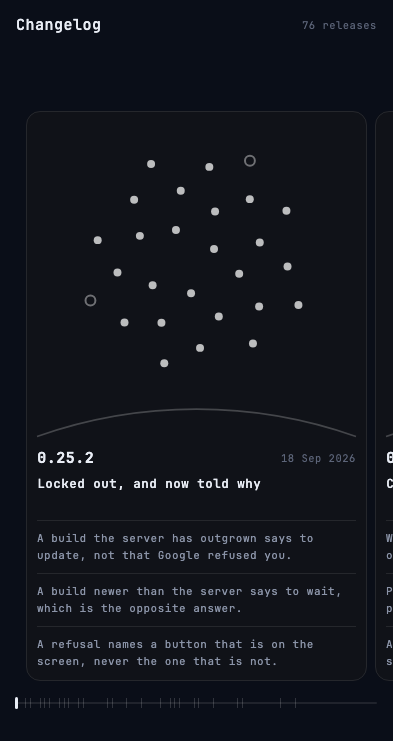
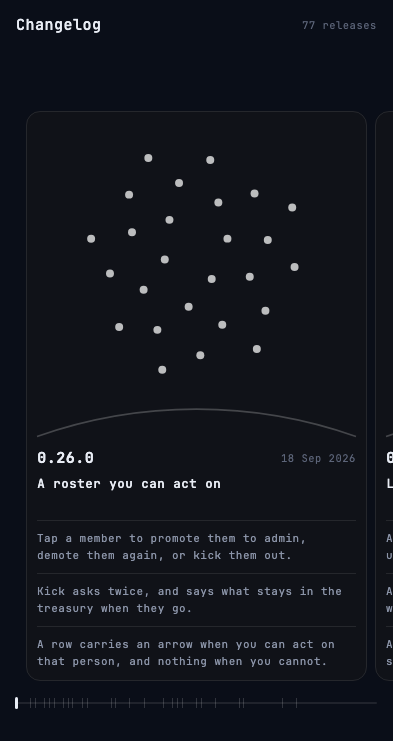
Cover what the slice cost, and re-record what the changelog moved
Two CI failures, two unrelated causes.

**The screenshots.** `settings_face_changelog` and `settings_face_swapping`
draw the in-game changelog, which gained a 0.26.0 entry *after* the baselines
were recorded. `./gradlew check` went green over it because plain `desktopTest`
neither records nor verifies — only `verifyRoborazziDesktop` compares, and that
is the command that had to run after the changelog edit rather than before it.

**The coverage gate**, on three values. The behaviour row fell because the
member face has three states no behaviour test reached, and all three were worth
reaching: an admin's card, which is the only thing that says which way the rank
moves; the held card, which is the arm the no-dead-control rule is actually
about; and the reading under it, which turns out to exercise the `0m` floor as
well. The compact confirm stays uncovered by that kind and honestly so — the
behaviour harness is fixed at 393dp, and the 320dp screenshot is what photographs
the stacked pair.

The integration row fell for a reason no test of mine could answer: the string
catalogue is in that pass's denominator and unreachable by it, so every string
this slice added lowered the row. Paid where the debt could be paid, which the
`test-coverage` skill says is the point rather than a dodge — `AllianceTreasuryEndpointsKt`
was 28 lines at zero across that pass, because the routes take their repositories
as parameters so the decisions can be unit-tested with no socket, which left the
[…]

diff --git a/server/src/test/kotlin/dev/fardavide/oltre/server/TreasuryIntegrationTest.kt b/server/src/test/kotlin/dev/fardavide/oltre/server/TreasuryIntegrationTest.kt
@@ -7,7 +7,11 @@ import dev.fardavide.oltre.protocol.AllianceTag
 import dev.fardavide.oltre.protocol.ApiError
 import dev.fardavide.oltre.protocol.ClientVerb
 import dev.fardavide.oltre.protocol.IdempotencyKey
+import dev.fardavide.oltre.protocol.ApiVersion
+import dev.fardavide.oltre.protocol.BuyProjectRequest
 import dev.fardavide.oltre.protocol.JoinDecision
+import dev.fardavide.oltre.protocol.Protocol
+import io.ktor.http.HttpStatusCode
 import io.zonky.test.db.postgres.junit.SingleInstancePostgresRule
 import kotlinx.coroutines.test.runTest
 import org.junit.ClassRule
@@ -29,6 +33,11 @@ class TreasuryIntegrationTest {
     private val clock = MovableClock(TEST_NOW)
     private val colonies = PostgresColonyRepository(database, clock)
     private val alliances = PostgresAllianceRepository(database)
+    // The route half of this file needs somebody to identify the caller, and it is the real one for
+    // the same reason everything else here is: `givenPlayer` writes a `header` provider row, so
+    // resolving it is a select against the same store the routes read.
+    private val players = PostgresPlayerRepository(database, clock)
+    private val authenticator = HeaderAuthenticator(players)
     private val davide = PlayerId("davide")
 
     @BeforeTest
@@ -260,6 +269,97 @@ class TreasuryIntegrationTest {
         assertEquals(TreasuryRead.Refused(ApiError.AllianceRoleTooLow), refused)
         assertEquals("400000", database.scalar("SELECT pool_metal FROM alliances"))
     }
+
+    // ── The two routes, over the real store ──────────────────────────────────────────────────
+    //
+    // **`AllianceTreasuryEndpointsTest` judges what these decide and this judges that they work**,
+    // and the pair is the split `Endpoints.kt` argues for rather than a duplicate of it: the route
+    // functions take their repositories as parameters precisely so the decisions can be unit-tested
+    // with no socket, which leaves *the route composed with the thing it will actually run against*
+    // measured by nothing. A map has no transactions, no `pool_metal` column and no version to move
+    // under a reader, so a route that read the pool correctly from `InMemoryAllianceRepository` and
+    // wrongly from Postgres would have passed every test in the suite.
+    //
+    // No Ktor host, deliberately. The boundary being crossed is the database; a test server would
+    // add a socket that changes nothing about what is being asked.
+
+    @Test
+    fun `the treasury route reads the pool the store actually holds`() = runTest {
+        val seat = anAllianceWithDavideInIt()
+        val colony = colonies.found(davide, establishedColony()).colony
+        val paid = Resources.of(metal = 4_210, crystal = 960, deuterium = 120)
+        colonies.write(
+            davide,
+            contributed(colony.snapshot, paid),
+            setOf(IdempotencyKey("first")),
+            colony.version,
+            PoolCredit(seat.alliance, seat.id, paid, AllianceBalance.award(paid)),
+        )
+
+        val answer = assertIs<Answer.Treasury>(readTreasury(alliances, authenticator, clock, asDavide()))
+
+        assertEquals(paid, answer.response.pool)
+        // **The game's own 1 : 2 : 3, not the metal figure.** What a seat has paid in is the
+        // contribution's *worth* rather than one of its three numbers, which is the whole reason
+        // `PoolCredit` carries `award` beside the resources.
+        assertEquals(AllianceBalance.award(paid), answer.response.contributed)
+        assertEquals(listOf(AllianceProject.CHARTER_EXPANSION), answer.response.projects.map { it.project })
+    }
+
+    @Test
+    fun `a caller the store has never heard of is refused by the route`() = runTest {
+        anAllianceWithDavideInIt()
+
+        val answer = readTreasury(alliances, authenticator, clock, Credentials(null, null))
+
+        assertEquals(HttpStatusCode.Unauthorized, answer.status)
+    }
+
+    // **The buy route's retry, against a store that can actually lose a compare-and-set.** The
+    // version is read inside the route rather than sent by the caller, which is only meaningful
+    // where a version exists to move.
+    @Test
+    fun `the buy route spends the pool and widens the roster`() = runTest {
+        val seat = anAllianceWithDavideInIt()
+        val colony = colonies.found(davide, establishedColony()).colony
+        val paid = Resources.of(metal = 400_000, crystal = 200_000, deuterium = 100_000)
+        colonies.write(
+            davide,
+            contributed(colony.snapshot, paid),
+            setOf(IdempotencyKey("first")),
+            colony.version,
+            PoolCredit(seat.alliance, seat.id, paid, AllianceBalance.award(paid)),
+        )
+        val before = assertIs<TreasuryRead.Present>(alliances.treasuryOf(davide, TEST_NOW))
+        val cost = AllianceBalance.costOf(AllianceProject.CHARTER_EXPANSION, before.alliance.seatsBought)
+
+        val answer = assertIs<Answer.Treasury>(
+            buyAllianceProject(alliances, authenticator, clock, asDavide(), buyBody()),
+        )
+
+        assertEquals(paid.minus(cost), answer.response.pool)
+        assertEquals(
+            (paid.minus(cost)).metal.toString(),
+            database.scalar("SELECT pool_metal FROM alliances"),
+        )
+    }
+
+    // A body this build cannot read is a refusal rather than a throw, and it is the one arm of the
+    // route that never reaches the store at all.
+    @Test
+    fun `the buy route refuses a body it cannot read`() = runTest {
+        anAllianceWithDavideInIt()
+
+        val answer = buyAllianceProject(alliances, authenticator, clock, asDavide(), "not json")
+
+        assertIs<Answer.Failed>(answer)
+    }
+
+    private fun asDavide(): Credentials = Credentials(authorization = null, playerHeader = davide.value)
+
+    private fun buyBody(): String = Protocol.json.encodeToString(
+        BuyProjectRequest(ApiVersion.CURRENT, AllianceProject.CHARTER_EXPANSION),
+    )
 
     private suspend fun anAllianceWithDavideInIt(): Seat {
         alliances.found(davide, AllianceName("Ferro Alto"), AllianceTag("FRA"), TEST_NOW)

diff --git a/client/shell/src/desktopTest/kotlin/dev/fardavide/oltre/client/AllianceAppBehaviourTest.kt b/client/shell/src/desktopTest/kotlin/dev/fardavide/oltre/client/AllianceAppBehaviourTest.kt
@@ -634,6 +634,49 @@ class AllianceAppBehaviourTest {
         }
     }
 
+    // **The other direction, and the card that says which one this is.** An admin's row draws
+    // `ADMIN` under the name and the blue command reads Demote — the same face inverted, which is
+    // the only thing that says which way the rank moves.
+    @Test
+    fun `a founder demotes an admin`() {
+        val server = enlisted().apply {
+            allianceRoster = ROSTER.copy(members = ROSTER.members + MEMBER.copy(role = AllianceRole.ADMIN))
+        }
+        app(saved = colony(), api = server) {
+            open(OltreTab.ALLIANCE)
+            val alliance = AllianceRobot(this)
+
+            alliance.openMember(row = 1)
+            alliance.assertMemberFaceReads(Strings.allianceRoleAdmin())
+            alliance.assertRoleCommand(Strings.allianceMemberDemote())
+            alliance.setRole()
+
+            alliance.assertPromoted(AllianceRole.MEMBER)
+        }
+    }
+
+    // **A command with no signal says why, instead of being a control that does nothing.** Both
+    // commands ask the server and neither can be queued — a seat and a rank are the alliance's, not
+    // the phone's — so the face states the requirement and dims what acts while the card and the
+    // reading stay at full strength. This is the arm the no-dead-control rule is actually about.
+    @Test
+    fun `a command that cannot reach the server says so rather than doing nothing`() {
+        val server = enlisted().apply { allianceRoster = ROSTER.copy(members = ROSTER.members + MEMBER) }
+        app(saved = colony(), api = server) {
+            open(OltreTab.ALLIANCE)
+            val alliance = AllianceRobot(this)
+            alliance.openMember(row = 1)
+            server.offline = true
+
+            alliance.setRole()
+
+            alliance.assertMemberFaceReads(Strings.allianceMemberHeldLead())
+            alliance.assertMemberFaceReads(Strings.allianceMemberHeldBody())
+            // The reading is not a control, so it is not dimmed and it is still there to read.
+            alliance.assertMemberFaceReads(Strings.allianceMemberLastSeen(TextRes("1m")))
+        }
+    }
+
     // A member taps a row and nothing happens, which is the design's answer rather than a face made
     // of the sentence explaining its own emptiness: they never saw an arrow, so nothing is absent.
     @Test
